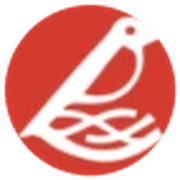
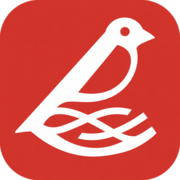
feat(ui): refresh brand assets and loading states

diff --git a/app/globals.css b/app/globals.css
@@ -113,7 +113,8 @@ section { margin-block: clamp(36px, 6vw, 76px); }
 .brand { display: flex; align-items: center; gap: 10px; min-width: max-content; flex-shrink: 0; color: var(--brand); font-weight: 900; font-size: 18px; line-height: .95; text-decoration: none; outline: none; border-radius: 8px; }
 .brand:focus { outline: none; }
 .brand:focus-visible { outline: 2px solid var(--brand-soft); outline-offset: 3px; }
-.brand img { width: 44px; height: 44px; object-fit: contain; }
+.brand-mark { flex: 0 0 auto; object-fit: contain; border-radius: 22%; }
+.brand img { width: 44px; height: 44px; }
 .brand small { display: block; color: var(--ink); font-size: 11px; letter-spacing: .12em; text-transform: uppercase; }
 .catalog-button, .cart-button, .primary, .secondary, .add-button { border: 0; min-height: 44px; display: inline-flex; align-items: center; justify-content: center; gap: 8px; padding: 0 16px; border-radius: 999px; font-weight: 750; flex-shrink: 0; transition: transform .18s, background .18s, box-shadow .18s; }
 .catalog-button, .primary { background: var(--brand); color: white; }
@@ -1307,9 +1308,32 @@ legend { padding-inline: 5px; font-weight: 700; }
 .totals dt:last-of-type, .totals dd:last-of-type { margin-top: 8px; padding-top: 12px; border-top: 1px solid var(--line); font-size: 20px; font-weight: 850; }
 
 .reading, .account { max-width: 780px; margin-inline: auto; }
-.reading > .panel, .account > .panel { padding: 22px; }
+.reading.panel, .reading > .panel, .account > .panel { padding: 22px; }
 .reading details { margin-bottom: 10px; padding: 18px; border: 1px solid var(--line); border-radius: var(--radius-sm); background: white; }
 .reading summary { cursor: pointer; font-weight: 750; }
+.faq-page { padding: clamp(22px, 3vw, 32px); }
+.faq-page h1 { margin-bottom: 18px; font-size: clamp(36px, 4vw, 56px); line-height: 1.05; }
+.faq-page > .muted { margin-bottom: 26px; }
+.faq-item summary {
+  min-height: 28px;
+  display: flex;
+  align-items: center;
+  gap: 12px;
+  list-style: none;
+}
+.faq-item summary::-webkit-details-marker { display: none; }
+.faq-item summary::before {
+  content: "";
+  width: 9px;
+  height: 9px;
+  flex: 0 0 9px;
+  border-right: 2px solid currentColor;
+  border-bottom: 2px solid currentColor;
+  transform: rotate(-45deg);
+  transition: transform .18s ease;
+}
+.faq-item[open] summary::before { transform: rotate(45deg); }
+.faq-item p { margin: 14px 0 0 21px; color: var(--muted); }
 .profile-name { margin-bottom: 20px; display: flex; align-items: center; justify-content: space-between; }
 .profile-name strong, .profile-name small { display: block; }
 .account-links { margin-block: 20px; display: grid; overflow: hidden; border: 1px solid var(--line); border-radius: var(--radius); background: white; }
@@ -1417,7 +1441,8 @@ dialog.modal[open] {
 
 
 /* Home Page Catalog Hint Card */
-.catalog-hint-section { margin-block: 28px 48px; }
+.catalog-hint-section { margin-block: 28px 0; }
+main.container:has(.catalog-hint-section) { padding-bottom: 36px; }
 .catalog-hint-card {
   padding: 22px 28px;
   display: flex;
@@ -2591,8 +2616,24 @@ dialog.modal[open] {
   border-color: var(--danger);
 }
 
-.footer { padding-block: 36px calc(36px + var(--safe-bottom)); display: flex; flex-wrap: wrap; gap: 15px 30px; border-top: 1px solid var(--line); color: var(--muted); font-size: 14px; }
-.footer-brand { color: var(--brand); font-weight: 850; }
+.footer {
+  padding-block: 28px calc(28px + var(--safe-bottom));
+  display: grid;
+  grid-template-columns: auto minmax(0, 1fr) auto auto;
+  align-items: center;
+  gap: clamp(20px, 3vw, 40px);
+  border-top: 1px solid var(--line);
+  color: var(--muted);
+  font-size: 14px;
+}
+.footer-brand { display: inline-flex; align-items: center; gap: 9px; color: var(--brand); font-weight: 850; text-decoration: none; }
+.footer-brand img { width: 30px; height: 30px; }
+.brand-loading { min-height: 48vh; display: grid; place-content: center; justify-items: center; gap: 14px; color: var(--muted); font-size: 14px; }
+.brand-loading-mark { width: 72px; height: 72px; animation: brand-loading-pulse 1.4s ease-in-out infinite; }
+@keyframes brand-loading-pulse {
+  0%, 100% { transform: scale(.96); opacity: .72; }
+  50% { transform: scale(1); opacity: 1; }
+}
 
 /* Mobile Devices (< 768px) */
 @media (max-width: 767px) {
@@ -2603,6 +2644,8 @@ dialog.modal[open] {
   section { margin-block: 28px; }
   h1 { font-size: 26px; }
   h2 { font-size: 20px; }
+  .faq-page { padding: 18px; }
+  .faq-page h1 { font-size: 28px; }
 
   .topline { display: none; }
   .location { display: none !important; }
@@ -3213,7 +3256,7 @@ button, [role="button"], input, select { min-height: var(--control-size); }
 .product-information > .eyebrow { min-height: var(--control-size); display: inline-flex; align-items: center; }
 .check { min-height: var(--control-size); }
 .filters-desktop { max-height: calc(100dvh - var(--header-height) - 32px); overflow-y: auto; overscroll-behavior: contain; }
-.footer a { padding-block: 8px; }
+.footer a { padding-block: 0; }
 
 /* ==========================================================================
    Consolidated Breakpoints:
@@ -3413,6 +3456,7 @@ button, [role="button"], input, select { min-height: var(--control-size); }
   .mobile-cart-sticky-bar { min-height: var(--sticky-action-height); padding-bottom: 10px; }
   .footer {
     padding: 24px 0 calc(var(--bottom-nav-height) + var(--safe-bottom) + 24px);
+    display: flex;
     flex-direction: column;
     align-items: stretch;
     gap: 2px;
@@ -3730,6 +3774,7 @@ button, [role="button"], input, select { min-height: var(--control-size); }
   width: 180px;
   height: auto;
   object-fit: contain;
+  mix-blend-mode: multiply;
   animation: floatSwallow 3s ease-in-out infinite;
 }
 @keyframes floatSwallow {
@@ -5192,4 +5237,3 @@ button, [role="button"], input, select { min-height: var(--control-size); }
   background: #fff5f5;
   border-color: var(--brand, #e20a25);
 }
-

diff --git a/app/layout.tsx b/app/layout.tsx
@@ -3,6 +3,7 @@ import Link from 'next/link';
 import { Suspense } from 'react';
 import { ShopProvider } from '@/components/shop-context';
 import { Header } from '@/components/header';
+import { HomeBrandLink } from '@/components/home-brand-link';
 import { publicApi, selectedStore } from '@/lib/upstream';
 import { unwrap, Store } from '@/lib/types';
 import './globals.css';
@@ -15,33 +16,36 @@ export const viewport: Viewport = {
 
 export const metadata: Metadata = {
   title: {
-    default: 'Ласточка Джами — любимые продукты рядом',
-    template: '%s · Ласточка',
+    default: 'Ласточка Джами — доставка',
+    template: '%s · Ласточка Джами',
   },
   description:
     'Продукты, свежая выпечка и готовые блюда. Каталог, быстрая доставка и самовывоз из Ласточки Джами.',
-  applicationName: 'Ласточка',
+  applicationName: 'Ласточка Джами',
   icons: {
     icon: [
-      { url: '/favicon.ico', sizes: 'any' },
-      { url: '/icon.svg', type: 'image/svg+xml' },
-      { url: '/icon-192.png', sizes: '192x192', type: 'image/png' },
-      { url: '/icon-512.png', sizes: '512x512', type: 'image/png' },
+      { url: '/favicon-mark-v3.ico', sizes: 'any' },
+      { url: '/favicon-mark-32-v3.png', sizes: '32x32', type: 'image/png' },
+      { url: '/favicon-mark-16-v3.png', sizes: '16x16', type: 'image/png' },
+      { url: '/brand-icon-192-v2.png', sizes: '192x192', type: 'image/png' },
+      { url: '/brand-icon-512-v2.png', sizes: '512x512', type: 'image/png' },
     ],
-    apple: [
-      { url: '/apple-touch-icon.png', sizes: '180x180', type: 'image/png' },
-      { url: '/apple-icon.png', sizes: '180x180', type: 'image/png' },
-    ],
-    shortcut: ['/favicon.ico'],
+    apple: [{ url: '/apple-touch-icon-v2.png', sizes: '180x180', type: 'image/png' }],
+    shortcut: ['/favicon-mark-v3.ico'],
   },
   manifest: '/manifest.webmanifest',
   openGraph: {
     type: 'website',
     locale: 'ru_RU',
     siteName: 'Ласточка Джами',
-    title: 'Ласточка Джами — любимые продукты рядом',
+    title: 'Ласточка Джами — доставка',
     description:
       'Продукты, свежая выпечка и готовые блюда. Каталог, быстрая доставка и самовывоз из Ласточки Джами.',
+  },
+  twitter: {
+    card: 'summary_large_image',
+    title: 'Ласточка Джами — доставка',
+    description: 'Продукты, выпечка и готовые блюда с доставкой и самовывозом.',
   },
 };
 
@@ -68,9 +72,9 @@ export default async function RootLayout({ children }: { children: React.ReactNo
             {children}
           </main>
           <footer className="container footer">
-            <Link className="footer-brand" href="/">
-              Ласточка Джами
-            </Link>
+            <HomeBrandLink className="footer-brand" imageSize={30}>
+              <span>Ласточка Джами</span>
+            </HomeBrandLink>
             <span>Всё любимое — рядом</span>
             <Link href="/faq">Вопросы и ответы</Link>
             <Link href="/info">Информация и контакты</Link>

diff --git a/src/components/shop-context.tsx b/src/components/shop-context.tsx
@@ -8,7 +8,7 @@ import {
   ReactNode,
   useCallback,
 } from 'react';
-import { useRouter, usePathname } from 'next/navigation';
+import { useRouter } from 'next/navigation';
 import { request, browserSession } from '@/lib/client';
 import { Product, Cart, unwrap } from '@/lib/types';
 import {
@@ -40,7 +40,6 @@ export const useShop = () => useContext(Context);
 
 export function ShopProvider({ children }: { children: ReactNode }) {
   const router = useRouter();
-  const pathname = usePathname();
   const [authenticated, setAuth] = useState(false);
   const [ready, setReady] = useState(false);
   const [cart, setCart] = useState<Cart | null>(null);
@@ -83,28 +82,6 @@ export function ShopProvider({ children }: { children: ReactNode }) {
     const timer = setTimeout(() => setMessage(''), 6500);
     return () => clearTimeout(timer);
   }, [message]);
-
-  // Sync cart item count to browser tab title
-  useEffect(() => {
-    if (typeof document === 'undefined') return;
-    const items =
-      cart?.storeGroups?.flatMap((g) => g.items) ||
-      cart?.dateGroups?.flatMap((g) => g.items) ||
-      [];
-    const count = items.reduce((sum, it) => sum + (it.quantity || 1), 0);
-
-    // Give Next.js a tick to set page-specific title
-    const timeout = setTimeout(() => {
-      const cleanTitle = document.title.replace(/^\(\d+\)\s*/, '');
-      if (count > 0) {
-        document.title = `(${count}) ${cleanTitle}`;
-      } else if (cleanTitle) {
-        document.title = cleanTitle;
-      }
-    }, 50);
-
-    return () => clearTimeout(timeout);
-  }, [cart, pathname]);
 
   async function run<T>(f: () => Promise<T>): Promise<T | undefined> {
     try {

diff --git a/src/components/header.tsx b/src/components/header.tsx
@@ -33,6 +33,7 @@ import { useShop } from './shop-context';
 import { request } from '@/lib/client';
 import { list, money, Store, CartItem, product, type Address } from '@/lib/types';
 import { Modal, Photo } from './ui';
+import { HomeBrandLink } from './home-brand-link';
 
 function getInnerScreenTitle(path: string): string | null {
   if (path === '/profile') return 'Профиль';
@@ -199,12 +200,11 @@ export function Header({ store }: { store: Store | null }) {
         )}
 
         <div className="container header-row">
-          <Link href="/" className="brand">
-            <img src="/images/logo.webp" alt="Ласточка" width={46} height={46} />
+          <HomeBrandLink className="brand" imageSize={46}>
             <span>
               Ласточка<small>Джами</small>
             </span>
-          </Link>
+          </HomeBrandLink>
 
           <Link className="catalog-button" href="/catalog">
             <Menu size={20} /> Каталог

diff --git a/src/components/home-brand-link.tsx b/src/components/home-brand-link.tsx
@@ -1,0 +1,43 @@
+'use client';
+
+import type { ReactNode } from 'react';
+import Link from 'next/link';
+import { usePathname } from 'next/navigation';
+
+export function HomeBrandLink({
+  className,
+  imageSize,
+  children,
+}: {
+  className: string;
+  imageSize: number;
+  children: ReactNode;
+}) {
+  const pathname = usePathname();
+  const isHome = pathname === '/';
+  const label = isHome ? 'Обновить главную' : 'Перейти на главную';
+
+  return (
+    <Link
+      href="/"
+      className={className}
+      aria-label={label}
+      title={label}
+      onClick={(event) => {
+        if (isHome) {
+          event.preventDefault();
+          window.location.reload();
+        }
+      }}
+    >
+      <img
+        className="brand-mark"
+        src="/images/brand-icon-v2.webp"
+        alt=""
+        width={imageSize}
+        height={imageSize}
+      />
+      {children}
+    </Link>
+  );
+}

diff --git a/app/loading.tsx b/app/loading.tsx
@@ -1,0 +1,14 @@
+export default function Loading() {
+  return (
+    <div className="brand-loading" role="status" aria-live="polite">
+      <img
+        className="brand-mark brand-loading-mark"
+        src="/images/brand-icon-v2.webp"
+        alt=""
+        width={72}
+        height={72}
+      />
+      <span>Загружаем…</span>
+    </div>
+  );
+}

diff --git a/docs/brand-guidelines.md b/docs/brand-guidelines.md
@@ -1,0 +1,25 @@
+# Использование бренда «Ласточка Джами»
+
+## Знак
+
+- Основной знак: `/images/brand-icon-v2.png`; облегчённая WebP-версия используется в интерфейсе.
+- Знак не растягивать, не перекрашивать и не добавлять тени поверх исходной.
+- Минимальный размер в интерфейсе — 28 px. Для 16–48 px используется упрощённый favicon без волн.
+- Охранное поле вокруг знака — не менее 12,5% его ширины, если знак не является готовой иконкой.
+
+## Логотип и текст
+
+- Полное название: «Ласточка Джами». Короткая форма «Ласточка» допустима в тесных зонах.
+- В title сначала указывается содержание страницы, затем «· Ласточка Джами». Счётчики корзины в title не добавляются.
+- Для короткого обещания используется фраза «Всё любимое — рядом».
+
+## Цвет и размещение
+
+- Основной красный UI: `#e20a25`; фон страницы: `#fbfaf8`; основной текст: `#171719`.
+- В хедере знак — 44 px на desktop, 38 px на mobile; в футере — 30 px; в экране загрузки — 72 px.
+- Все кликабельные логотипы ведут на главную; на самой главной они обновляют страницу.
+
+## Social preview
+
+- Базовое превью: `app/opengraph-image.png`, 1200×630 px.
+- Текст не должен входить в зону 80 px от края, а знак — быть мельче 40% высоты картинки.
